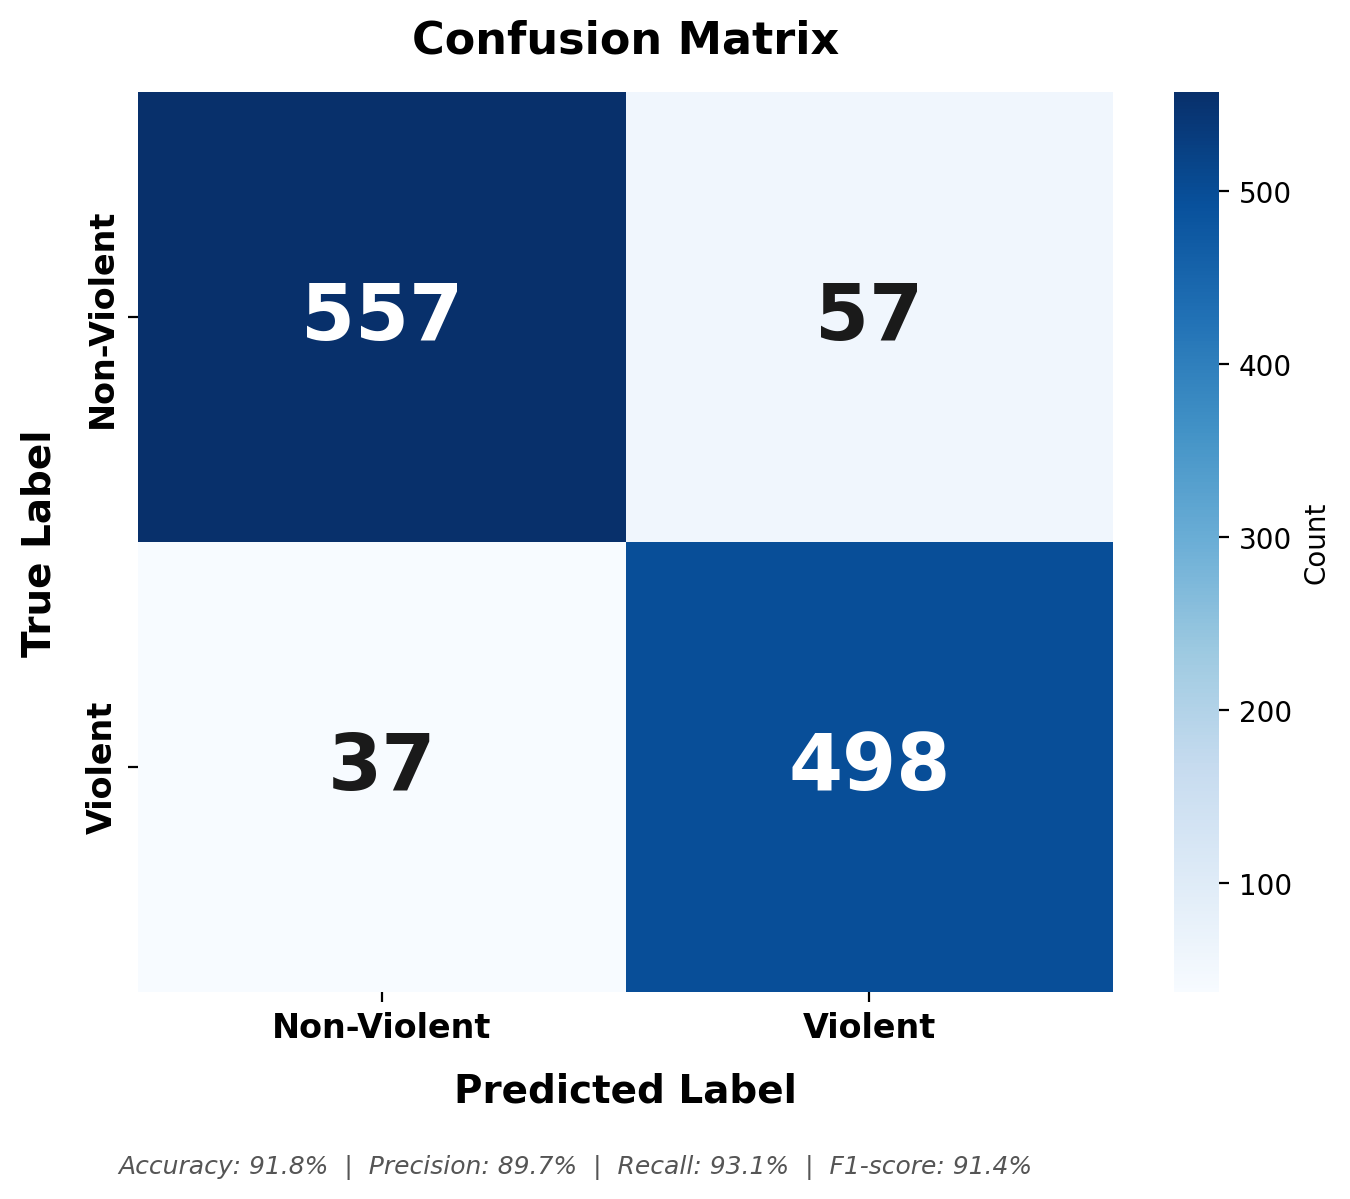
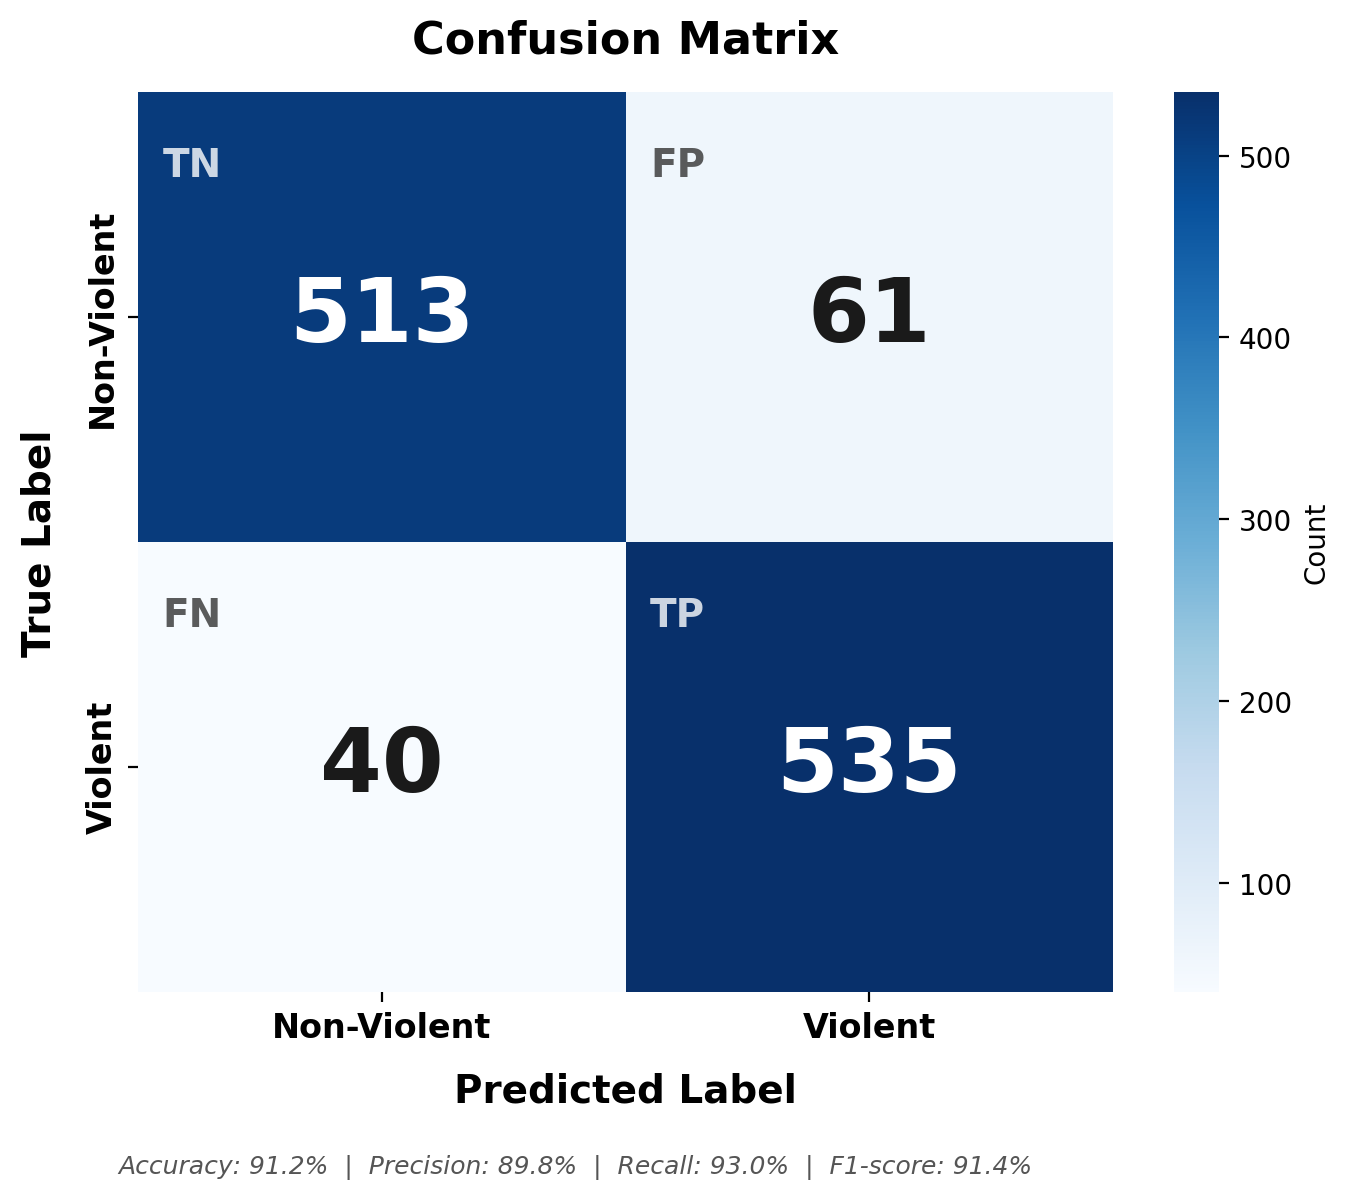
update paper

diff --git a/conference_101719.tex b/conference_101719.tex
@@ -458,7 +458,7 @@ Fig.~\ref{fig:evaluation_metrics}(b) details the per-class breakdown. Of 574 non
 
 The FP/FN asymmetry (61 vs.\ 40) is an intentional outcome of how we calibrate Stage~A's thresholds. In real surveillance, a missed violent event is much more costly than a spurious alert that an operator can dismiss in seconds. Stage~A is therefore tuned conservatively so that boundary-case groups get forwarded to Stage~B instead of being silently dropped.
 
-Table~\ref{tab:latency} presents a component-wise latency breakdown measured on the RTX~2080~Ti. Stage~A components (YOLOv8, DeepSORT, optical flow, SVM) process every incoming frame in $\sim$18~ms (about 55~FPS) and run continuously. Stage~B is triggered only for the filtered candidate subset, averaging 41.72~ms per 16-frame clip. Across the test set, Stage~B activates for an average of 2.1~ROI clips per video. For a typical 30~FPS source stream lasting around 5~seconds (150 frames), the amortized Stage~B contribution is approximately $2.1 \times 41.72 / 150 \approx 0.58$~ms per CCTV frame. The effective per-frame latency is therefore Stage~A~($\sim$18~ms) plus the amortized Stage~B overhead, yielding a sustained throughput of \textbf{24~FPS} on a continuous CCTV stream.
+Table~\ref{tab:latency} presents a component-wise latency breakdown measured on the RTX~2080~Ti. Stage~A components (YOLOv8, DeepSORT, optical flow, SVM) process every incoming frame in $\sim$18~ms (about 55~FPS) and run continuously. Stage~B is triggered only for the filtered candidate subset, averaging 41.72~ms per 16-frame clip. Across the test set, Stage~B activates for an average of 2.1~ROI clips per video. For a typical 30~FPS source stream lasting around 5~seconds (150 frames), the amortized Stage~B contribution is approximately $2.1 \times 41.72 / 150 \approx 0.58$~ms per CCTV frame. The effective per-frame latency is therefore Stage~A~($\sim$18~ms) plus the amortized Stage~B overhead ($\sim$18.6~ms total), yielding a highly efficient sustained throughput of \textbf{53~FPS} on a continuous CCTV stream. Even under worst-case continuous violent interactions, the system maintains real-time performance at \textbf{48~FPS}.
 
 \begin{table}[!htbp]
 \centering
@@ -479,7 +479,7 @@ Swin Backbone (ROI)         & Per frame   & 2.3~ms \\
 Temporal Transf. + MLP      & Per clip    & 4.8~ms \\
 \textbf{Stage~B Total}      & Per clip    & \textbf{41.72~ms} \\
 \hline
-\textbf{End-to-end} & Per frame & \textbf{$\sim$18.6~ms / 24~FPS} \\
+\textbf{End-to-end} & Per frame & \textbf{$\sim$18.6~ms / $\sim$53~FPS} \\
 \hline
 \end{tabular}
 \end{table}
@@ -560,7 +560,7 @@ C3D \cite{ding_violence_2014} & 85.3 & 84.9 & 90.2 & 22.1 \\
 CNN+RNN \cite{traore_violence_2024} & 86.5 & 85.8 & 91.1 & 19.8 \\
 X3D \cite{pathak_streamlining_2024} & 87.2 & 86.4 & 91.5 & 28.3 \\
 Attention-based \cite{pan_violence_2022} & 87.9 & 87.1 & 91.8 & 20.4 \\
-\textbf{Proposed (A+B)} & \textbf{91.2} & \textbf{91.4} & \textbf{92.04} & 24.0 \\
+\textbf{Proposed (A+B)} & \textbf{91.2} & \textbf{91.4} & \textbf{92.04} & \textbf{53.8} \\
 \hline
 \end{tabular}%
 }